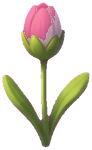
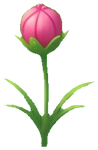
Remove the last pixel art: breathing heroine, help animations, particles, rain; real cosmos sprites

Changed region(s): [[0.0217, 0.0, 0.9783, 0.9867]]

diff --git a/src/game.js b/src/game.js
@@ -179,6 +179,7 @@
     if (name.startsWith("i_")) { drawIcon(name.slice(2), x, y + 1, w || 13); return; }
     if (name === "star_big" || name === "star_big_off") { star3(x + 16, y + 15, 15, name === "star_big"); return; }
     if (name.startsWith("m_")) { plantIcon(name.slice(2, -2), x, y, w || 16, h || 16); return; }
+    if (SOFT() && soft3dImg(name, x, y, w, h)) return;
     const im = IMG[name];
     if (!im || !im.complete || !im.naturalWidth) return;
     if (!w) { const k = HI.test(name) ? 2 : 1; w = im.naturalWidth / k; h = im.naturalHeight / k; }
@@ -221,11 +222,22 @@
     part(bx, by, mx, my, x + bx, y + by, iw, ih);
   }
   function imgH(name, x, y, h) {           // draw scaled to a given height
+    if (SOFT() && HERO3[name]) { const im = P3(HERO3[name]); if (im) ctx.drawImage(im, x, y, im.naturalWidth / im.naturalHeight * h, h); return; }
     const im = IMG[name];
     if (!im || !im.naturalWidth) return;
     ctx.drawImage(im, Math.round(x), Math.round(y), Math.round(im.naturalWidth / im.naturalHeight * h), h);
   }
-  function rect(x, y, w, h, c) { ctx.fillStyle = c; ctx.fillRect(Math.round(x), Math.round(y), Math.round(w), Math.round(h)); }
+  const RECT3 = { "rgba(194,177,153,0.4)": "#FFFFFF", "rgba(194,177,153,0.45)": "#FFFFFF", "rgba(147,196,90,0.5)": "#DCEBCF", "rgba(147,196,90,0.45)": "#DCEBCF",
+    "#bf5a1d": "#3E8F2C", "#c2b199": "#C5D3B4" };
+  function rect(x, y, w, h, c) {
+    if (SOFT()) {
+      c = RECT3[c] || c;
+      if (w >= 10 && h >= 10 && w < W) { fillRR(x, y, w, h, Math.min(9, h / 3), c); return; }
+      if (w < 10 && h < 10 && RECT3.__dots !== 0) { fillRR(x, y, w, h, Math.min(w, h) / 2, c); return; }
+      ctx.fillStyle = c; ctx.fillRect(x, y, w, h); return;
+    }
+    ctx.fillStyle = c; ctx.fillRect(Math.round(x), Math.round(y), Math.round(w), Math.round(h));
+  }
   function button(x, y, w, h, label, on, opt = {}) {
     if (SOFT()) { button3(x, y, w, h, label, on, opt); return; }
     const skin = opt.skin || "btn_green";
@@ -299,7 +311,12 @@
       const a = 1 - p.t / p.life;
       ctx.globalAlpha = Math.min(1, a * 1.5);
       ctx.fillStyle = p.c;
-      if (p.spark) { const s = a > 0.5 ? 2 : 1; ctx.fillRect(Math.round(p.x), Math.round(p.y), s, s); }
+      if (SOFT()) {
+        ctx.beginPath();
+        if (p.spark) ctx.arc(p.x, p.y, a > 0.5 ? 1.1 : 0.7, 0, 7);
+        else ctx.ellipse(p.x, p.y, Math.abs(Math.cos(p.rot)) * p.s * 0.6 + 0.5, p.s * 0.45, p.rot, 0, 7);
+        ctx.fill();
+      } else if (p.spark) { const s = a > 0.5 ? 2 : 1; ctx.fillRect(Math.round(p.x), Math.round(p.y), s, s); }
       else {
         const w = Math.abs(Math.cos(p.rot)) * p.s + 1;
         ctx.fillRect(Math.round(p.x - w / 2), Math.round(p.y), Math.round(w), p.s - 1 || 1);
@@ -1274,7 +1291,7 @@
     for (const d of st.drops) {
       d.y += d.v * dt; d.x -= d.v * 0.15 * dt;
       if (d.y > H) { d.y = -10; d.x = Math.random() * (W + 40); }
-      ctx.fillRect(Math.round(d.x), Math.round(d.y), 1, 4);
+      if (SOFT()) { ctx.fillRect(d.x, d.y, 0.6, 5); } else ctx.fillRect(Math.round(d.x), Math.round(d.y), 1, 4);
     }
   }
 
@@ -1328,14 +1345,15 @@
       const a = i * 0.45 + T * 0.25, r = 34 + k * 46 + 10 + (inhale ? 1 - (T * 0.6 + i * 0.13) % 1 : (T * 0.6 + i * 0.13) % 1) * 46;
       ctx.fillStyle = ["#f19cbd", "#f5d14f", "#b39ce3", "#fffaf0"][i % 4];
       ctx.globalAlpha = 0.8 * fade;
-      ctx.fillRect(Math.round(cx + Math.cos(a) * r), Math.round(cy + Math.sin(a) * r), 2, 2);
+      ctx.beginPath(); ctx.ellipse(cx + Math.cos(a) * r, cy + Math.sin(a) * r, 1.6, 1, a, 0, 7); ctx.fill();
     }
     ctx.globalAlpha = fade;
     // the heroine in her yoga pose: she rises and widens a little as her chest fills
     // the heroine sits and breathes: chest relaxed, then lifted as it fills
-    const im = k > 0.45 ? IMG.hero_breathe_1 : IMG.hero_breathe_0;
+    const im = SOFT() ? P3(k > 0.45 ? "h_in" : "h_out") : (k > 0.45 ? IMG.hero_breathe_1 : IMG.hero_breathe_0);
     if (im && im.naturalWidth) {
-      const h = 84 * (1 + k * 0.03), w = im.naturalWidth / im.naturalHeight * 84 * (1 + k * 0.02);
+      const hb = SOFT() ? 92 : 84;
+      const h = hb * (1 + k * 0.03), w = im.naturalWidth / im.naturalHeight * hb * (1 + k * 0.02);
       ctx.drawImage(im, Math.round(cx - w / 2), Math.round(cy + 40 - h - k * 2), Math.round(w), Math.round(h));
     }
     ctx.globalAlpha = 1;
@@ -1537,9 +1555,10 @@
   }
 
   // mini board for the help videos: n×m cells at size s
-  function miniCell(x, y, s, v) { rect(x, y, s, s, v ? "#4a8442" : "#5a9a48"); rect(x, y, s, 1, "rgba(255,250,240,0.18)"); rect(x, y, 1, s, "rgba(255,250,240,0.18)"); }
+  function miniCell(x, y, s, v) {
+    if (SOFT()) { fillRR(x + 0.6, y + 0.6, s - 1.2, s - 1.2, s * 0.22, v ? "rgba(255,250,240,0.2)" : "rgba(255,250,240,0.12)"); return; } rect(x, y, s, s, v ? "#4a8442" : "#5a9a48"); rect(x, y, s, 1, "rgba(255,250,240,0.18)"); rect(x, y, 1, s, "rgba(255,250,240,0.18)"); }
   function helpVideo(page, x, y, w, h, T) {
-    rect(x, y, w, h, "#264a30");
+    if (SOFT()) fillRR(x, y, w, h, 8, "#2f5a3c"); else rect(x, y, w, h, "#264a30");
     const s = page === 0 ? 16 : 22;
     const gx = x + Math.round((w - (page === 0 ? 6 : 9) * s) / 2), gy = y + 8;
     const grid = (cols, rows) => { for (let j = 0; j < rows; j++) for (let i = 0; i < cols; i++) miniCell(gx + i * s, gy + j * s, s, (Math.floor(i / 3) + Math.floor(j / 3)) % 2); };
@@ -1628,6 +1647,19 @@
       for (let i = 0; i < 3; i++) { img("i_seed", x + 40 + i * 60, y + 30 - ((T * 20 + i * 9) % 18)); text("+" + [15, 30, 150][i], x + 46 + i * 60, y + 56, 9, COL.gold); }
       img("i_tasks", x + 40, y + 78); img("i_gift", x + 100, y + 78); img("i_shop", x + 160, y + 78);
     } else if (page === 8) {
+      if (SOFT()) {            // a little loop of the journey: she walks the valley trail
+        const M = mountainOf(0), im = sceneImg(M, 1);
+        ctx.save(); rrc(ctx, x, y, w, h, 8); ctx.clip();
+        if (im) {
+          const sc = w / im.naturalWidth, oy = y - im.naturalHeight * sc * 0.45;
+          ctx.drawImage(im, x, oy, w, im.naturalHeight * sc);
+          const u = 0.15 + (T * 0.09) % 0.6, pp = trailAt(M, 1, u);
+          const hx = x + pp.x * w, hy = oy + pp.y * im.naturalHeight * sc, hh = heroH(M, 1, pp.y) * im.naturalHeight * sc;
+          drawHero("h_back_" + (Math.floor(T * 6) % 4), hx, hy, hh, false);
+        }
+        ctx.restore();
+        return;
+      }
       ctx.drawImage(IMG.bg_alpine, 0, 300, 504, Math.round(504 * h / w), x, y, w, h);
       for (let i = 0; i < 4; i++) img(i < 2 ? "sign_done" : i === 2 ? "sign_current" : "sign_locked", x + 16 + i * 44, y + h - 30 - i * 18);
       img("flag", x + w - 34, y + 8);
@@ -1637,6 +1669,21 @@
   }
 
   // ---------------------------------------------------------------- loop
+  // pixel-art names still used by older screens, drawn with the 3D art instead
+  const HERO3 = { hero_front: "h_front", hero_yoga: "h_out", hero_jump: "h_jump", hero_tired: "h_tired", hero_breathe_0: "h_out", hero_breathe_1: "h_in",
+    hero_walk_0: "h_walk_0", hero_walk_1: "h_walk_1", hero_walk_2: "h_walk_2", hero_walk_3: "h_walk_3" };
+  const OBST3 = { stone: "stone", stone_cracked: "stone2", plastic: "plastic", mushroom: "mush", weed_0: "weed", weed_1: "weed" };
+  function soft3dImg(name, x, y, w, h) {
+    let m;
+    if ((m = /^p_(\w+)_(\d)$/.exec(name))) { cell3d({ k: "plant", sp: m[1], age: [0, 3, 7][+m[2]] }, x, y, w || 16); return true; }
+    if (OBST3[name]) { cell3d({ k: OBST3[name] }, x, y, w || 16); return true; }
+    if (HERO3[name]) { spriteIn(HERO3[name], x, y, w || 40, h || 60); return true; }
+    if (name.startsWith("bee_")) { bee3(x + 5, y + 4, 0); return true; }
+    if (name === "flag") { spriteIn("flag_" + (Math.floor(st.time * 6) % 4), x, y, w || 16, h || 24); return true; }
+    if (name.startsWith("fly_") || name.startsWith("bg_")) return true;
+    return false;
+  }
+
   // ================================================================ soft 3D layer
   // Everything below draws the "animated film" look: textured earth clods with generated plants, vector UI,
   // and the journey up each mountain through its six scenes.

diff --git a/sw.js b/sw.js
@@ -1,5 +1,5 @@
 // Offline cache: network first (so updates arrive), cache as fallback.
-const CACHE = "pp-v14";
+const CACHE = "pp-v15";
 self.addEventListener("install", (e) => {
   e.waitUntil(caches.open(CACHE).then((c) => c.addAll(["./", "index.html", "src/i18n.js", "src/levels.js", "src/trails.js", "src/audio.js", "src/game.js"])).then(() => self.skipWaiting()));
 });

diff --git a/tools/import_3d.py b/tools/import_3d.py
@@ -66,14 +66,17 @@ def plants():
         for sp, row in zip((a_sp, b_sp), rows[-2:]):
             for st, p in enumerate(row[-3:]):
                 save(fit(crop(s, p, fill=(14 if sp == "cosmos" else 0)), h=[150, 230, 230][st], w=230), f"p3_{sp}_{st}")
-    # cosmos petals are the colour of that sheet's background, so until it is regenerated on green
-    # the cosmos is the daisy with pink petals
-    for st in range(3):
-        im = Image.open(os.path.join(OUT, f"p3_daisy_{st}.png")); a = np.asarray(im).astype(float)
-        r, g, b = a[..., 0], a[..., 1], a[..., 2]
-        white = (r > 175) & (g > 160) & (b > 150)
-        a[..., 0] = np.where(white, r * 0.97, r); a[..., 1] = np.where(white, g * 0.55, g); a[..., 2] = np.where(white, b * 0.78, b)
-        Image.fromarray(np.clip(a, 0, 255).astype(np.uint8), "RGBA").save(os.path.join(OUT, f"p3_cosmos_{st}.png"))
+    # cosmos comes from its own sheet on a bright green background
+    a = np.array(Image.open(os.path.join(SRC, "flowers_cosmos_green.jpg")).convert("RGB")).astype(float)
+    r, g, b = a[..., 0], a[..., 1], a[..., 2]
+    bg = np.median(a[(g > 200) & (r < 80) & (b < 80)], axis=0)
+    d = np.sqrt(((a - bg) ** 2).sum(-1))
+    alpha = np.clip((d - 60) / 50, 0, 1)
+    spill = np.clip(g - np.maximum(r, b) - 40, 0, None) * (1 - alpha * 0.6)
+    a[..., 1] -= spill * 0.7
+    rgba = np.dstack([np.clip(a, 0, 255), alpha * 255]).astype(np.uint8)
+    for st, p in enumerate(parts(rgba)[0][-3:]):
+        save(fit(crop(rgba, p), h=[150, 230, 230][st], w=230), f"p3_cosmos_{st}")
     o = key(os.path.join(SRC, "obstacles3d.jpg")); rows = parts(o, gap=4)
     names = [["stone", "stone2", "weed"], ["plastic", "mush"]]
     for row, ns in zip(rows, names):
